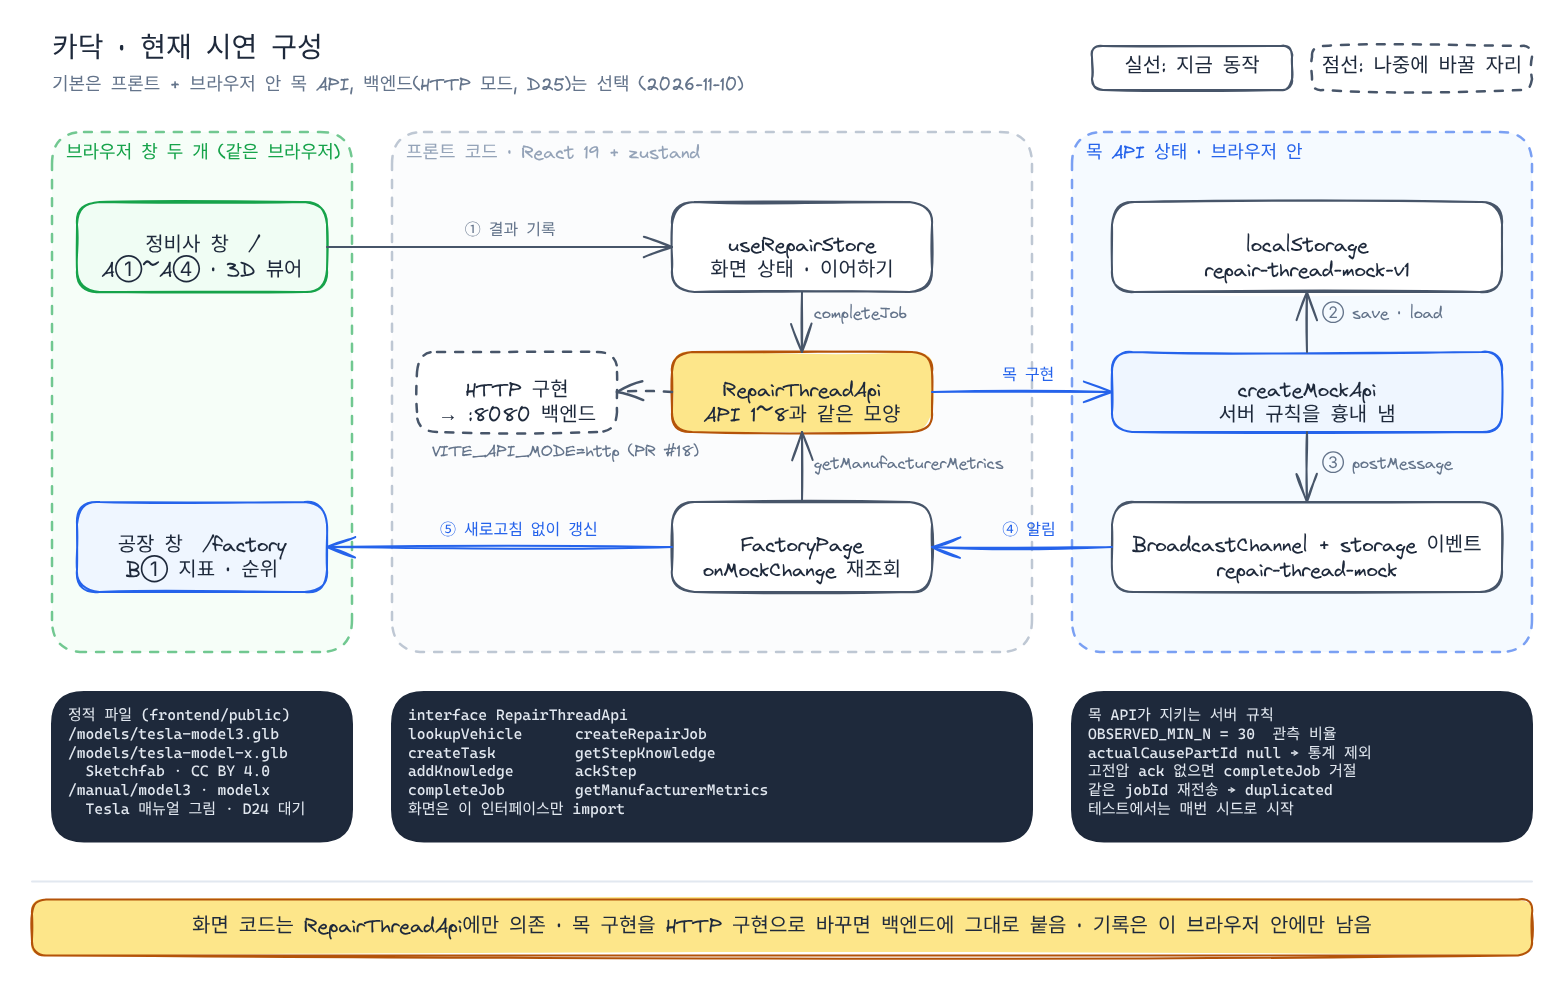
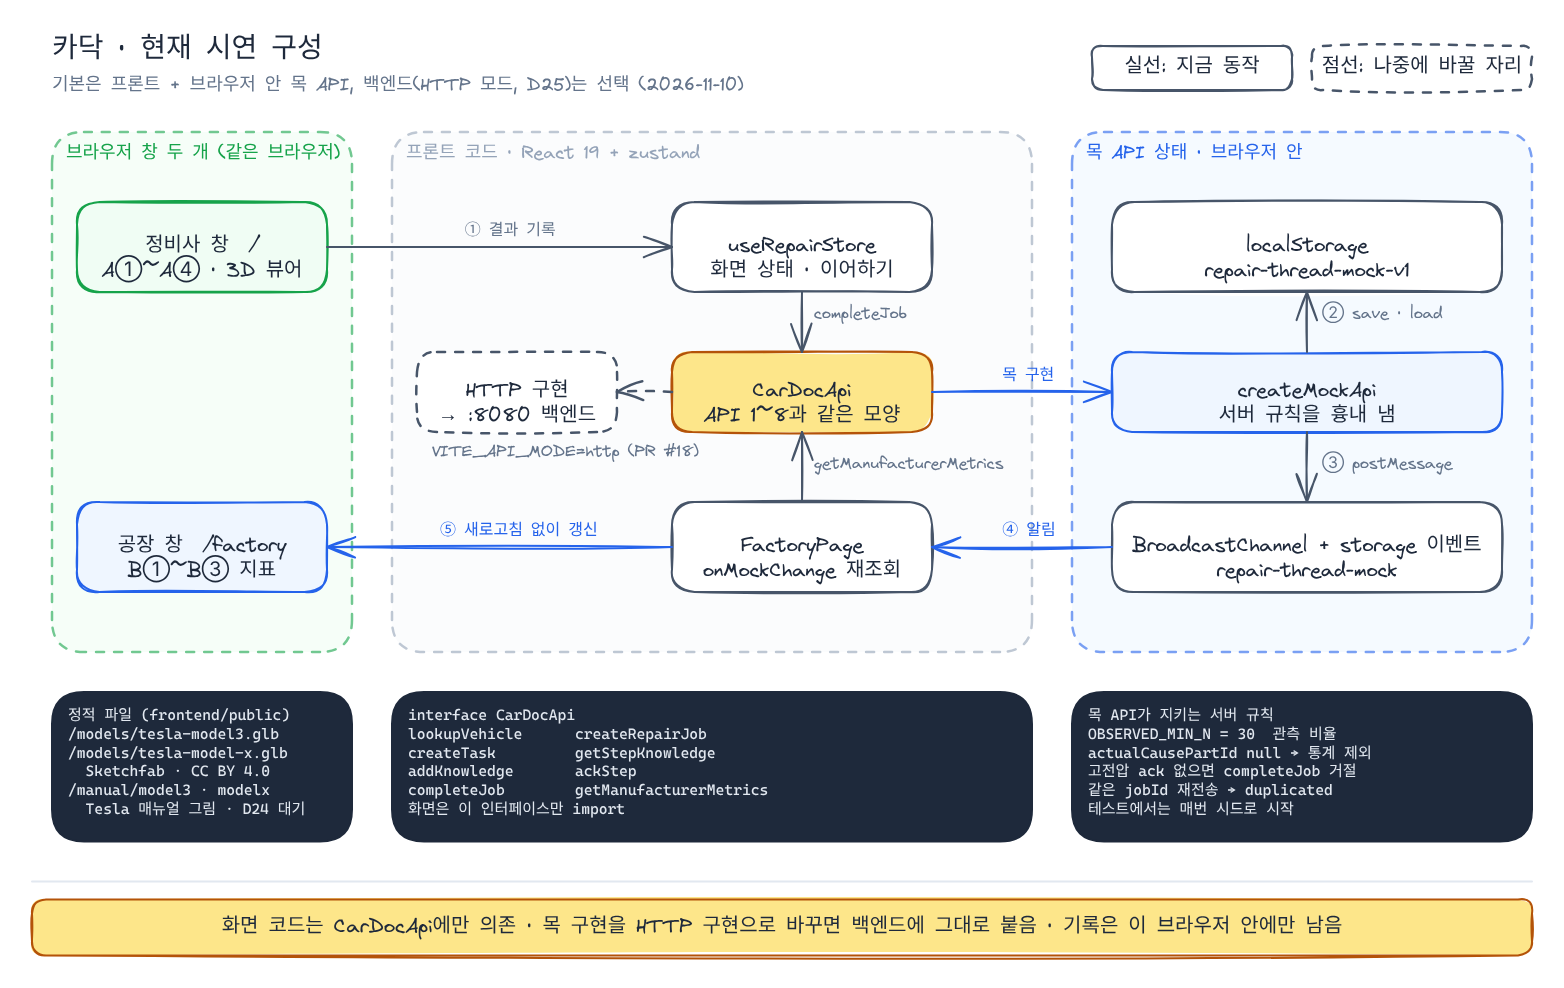
docs: master 최신(PR #25) 반영, CarDoc 이름 표기
- PR #25 반영: 고장코드 여러 개(공통 원인), 접수 증상 칩, 후보 점검 단계,
  공장 B② 사양·생산 비교·B③ 고장 다발, 결과 카드, CarDocApi 이름 변경
- 11장 리스크: 화면·목 API는 코드 여러 개, 백엔드 API 2는 코드 하나 (팀 결정 필요)
- 14장: Vercel 공개 시연판 (deploy-vercel.md), 15장: 시연 대본 링크
- 12-6: 목 API 추가 필드는 frontend-mock-api-diff.md
- 테스트: master 86개, TC-A1-07·A2-10·A4-15 추가, TC-A1-04·B2-01·B3-01 상태 갱신 (총 72개)
- README 4·5장: 구현 현황, 백엔드(PR #18), 스키마 6개, CarDocApi
- 현재 시연 구성 그림: CarDocApi, 공장 창 B①~B③

Claude-Session: https://claude.ai/code/session_014R51HkAxQNUEAujjDtMXPZ

diff --git a/docs/test-plan.md b/docs/test-plan.md
@@ -2,15 +2,15 @@
 
 > [기획서 13장](planning.md#13-테스트케이스-기획)과 같은 내용. 장 번호(6장, 14장 등)는 [기획서](planning.md) 기준이고, 배포 검증은 [EKS 배포 기획](deployment-eks.md)과 이어짐. 상태 열은 2026-11-10 기준.
 
-2026-11-10 기준으로 실제 구현(프론트엔드 + 목 API, PR #6·#7·#8·#9)에 맞춰 고침. 시연 전에 반드시 통과시킬 P0는 17개이고, 그중 12개는 자동 테스트로 통과함. 백엔드(PR #18, Spring Boot 모듈러 모놀리스)가 올라오면서 통합 테스트 14개(H2, MySQL 모드)와 모듈 경계 테스트 1개가 생김 (PR #18·#22·#23, 작성자가 Java 21·Gradle로 15개 통과 확인). 프론트는 master 69개, 최신 PR #21·#22·#23까지 합치면 93개(파일 16개) 통과함. 상태는 `frontend`에서 `npm test`를 돌린 결과 기준이고, 도구와 기준 숫자는 제안이라 팀 확정이 필요함.
+2026-11-10 기준으로 실제 구현(프론트엔드 + 목 API, PR #6·#7·#8·#9·#25)에 맞춰 고침. 시연 전에 반드시 통과시킬 P0는 17개이고, 그중 12개는 자동 테스트로 통과함. 백엔드(PR #18, Spring Boot 모듈러 모놀리스)가 올라오면서 통합 테스트 14개(H2, MySQL 모드)와 모듈 경계 테스트 1개가 생김 (PR #18·#22·#23, 작성자가 Java 21·Gradle로 15개 통과 확인). 프론트는 master 86개(파일 11개, PR #25 머지 뒤) 통과함. #21·#22·#23은 #25와 같은 스토어·화면 파일을 고쳐서 다시 맞춘 뒤 숫자를 갱신함. 상태는 `frontend`에서 `npm test`를 돌린 결과 기준이고, 도구와 기준 숫자는 제안이라 팀 확정이 필요함.
 
 ## 13-1. 테스트 레벨
 
 | 레벨 | 대상 | 도구 | 지금 상태 |
 | --- | --- | --- | --- |
-| 단위 | 목 API 정책(관측 비율, 분모, 고전압 검사, 중복 완료), store 흐름, 3D 부품 상태·배치, 공장 순위 | Vitest | master 69개(파일 11개). PR #21·#22·#23까지 합치면 93개(파일 16개) 통과 |
+| 단위 | 목 API 정책(관측 비율, 분모, 고전압 검사, 중복 완료), store 흐름, 3D 부품 상태·배치, 공장 순위 | Vitest | master 86개 통과 (파일 11개, PR #25 머지 뒤). #21·#22·#23은 다시 맞춘 뒤 갱신 |
 | 컴포넌트 | 결과 기록 화면 기본값 | Vitest + Testing Library (jsdom) | 1개 통과 |
-| 계약 | 화면이 쓰는 `RepairThreadApi` 인터페이스. 같은 인터페이스의 HTTP 구현(`httpApi.ts`, `VITE_API_MODE=http`)이 PR #18에서 생김 | 목 API 테스트가 계약 역할. HTTP 구현 계약 테스트는 아직 없음 (WireMock 또는 Spring Cloud Contract 제안) | 목 API 기준 통과 |
+| 계약 | 화면이 쓰는 `CarDocApi` 인터페이스(이전 `RepairThreadApi`, PR #25에서 이름 바꿈). 같은 인터페이스의 HTTP 구현(`httpApi.ts`, `VITE_API_MODE=http`)이 PR #18에서 생김 | 목 API 테스트가 계약 역할. HTTP 구현 계약 테스트는 아직 없음 (WireMock 또는 Spring Cloud Contract 제안) | 목 API 기준 통과 |
 | 통합 | 백엔드 API 흐름: 조회 → 후보 정렬·분모 → task → 고전압 → 완료·중복 → 비공개 팁 → 취소 → 진행 저장, 고전압 부품 task 없는 완료 409, 누적 시간 저장, 소유권 403, 형식 400 | Spring Boot Test + MockMvc, H2(MySQL 모드). Testcontainers(MySQL)는 제안 | 14개 (PR #18·#22·#23 `MechanicApiFlowTest`) |
 | 모듈 경계 | 모듈 순환 의존, 다른 모듈 내부 접근 금지 (D25) | Spring Modulith `ApplicationModules.verify()` | 1개 (PR #18 `ModularityTests`) |
 | E2E | 데모 시나리오, 정비사 창·공장 창 동시 갱신 | Playwright | 창 두 개 시나리오 수동 확인 1회 |
@@ -42,9 +42,10 @@
 | TC-A1-01 | A① VIN | 등록된 17자리 VIN (Model 3·Model X 예시 VIN) | 차종·사양·생산 시기·라인 표시 (API 1) | 단위 | P0 | 통과 | mockApi.test, useRepairStore.test |
 | TC-A1-02 | A① VIN | 16자리, 또는 I·O·Q 포함 | "17자리 확인" 안내, 서버 요청 안 보냄 | 단위 | P1 | 미실행 | 형식 검사 미구현 |
 | TC-A1-03 | A① VIN | 형식은 맞지만 미등록 VIN | 미등록 안내, 진단 진행 안 함 | 단위 | P1 | 통과 | mockApi.test |
-| TC-A1-04 | A① 고장코드 | 코드 여러 개 + 증상 | 범위 변경: 작업 하나에 코드 하나 (D25). 코드마다 작업을 따로 열고 증상은 함께 저장 | 통합 | P1 | 변경 | 백엔드 API 2는 `dtcCode` 하나만 받음 |
+| TC-A1-04 | A① 고장코드 | 코드 여러 개 + 증상 | 두 코드에 공통인 원인이 맨 위, 그 원인으로 수리 시작. 코드 하나면 공식 순서 그대로, 차종에 없는 코드가 섞이면 거절 | 단위 | P1 | 통과 | mockApi.test (PR #25). 백엔드 API 2는 아직 `dtcCode` 하나라 HTTP 모드는 미지원 (11장 리스크) |
 | TC-A1-05 | A① 고장코드 | 차종에 없는 코드, 형식 오류 | 등록 안 된 코드 안내, 저장 안 함 | 단위 | P1 | 통과 | mockApi.test (형식 검사는 미구현) |
 | TC-A1-06 | A① 고장코드 | 같은 코드 두 번 입력 | 하나로 합쳐 저장 | 단위 | P2 | 미실행 | - |
+| TC-A1-07 | A① 증상으로 시작 | 코드 없이 접수 증상 칩 선택 | 맞는 고장코드가 위로, 진단 중 후보에 맞은 증상 표시. 다른 차량을 고르면 증상 비움 | 단위 | P1 | 통과 | mockApi.test, useRepairStore.test (PR #25) |
 | TC-A2-01 | A② 우선순위 | B1A24 (Model 3, n=48) | 공식 순서 + 관측 비율·분자·n 표시 | 단위 | P0 | 통과 | mockApi.test |
 | TC-A2-02 | A② 경계 | 사례 n 29건 | "표본 부족, 참고용", 공식 순서만 기준 | 단위 | P0 | 미실행 | 경계 픽스처 필요 |
 | TC-A2-03 | A② 경계 | 사례 n 30건 | 관측 비율·분자·n 표시 | 단위 | P0 | 미실행 | 경계 픽스처 필요 |
@@ -54,6 +55,7 @@
 | TC-A2-07 | A② 콜드 스타트 | 기록 0건 | 공식 순서만, "표본 부족" | 단위 | P1 | 미실행 | - |
 | TC-A2-08 | A② 분모 통일 | 한 사례의 후보 목록 | 모든 후보가 같은 n, n<30 사례는 전부 참고용 (B1A3C, n=19) | 단위 | P1 | 통과 | mockApi.test |
 | TC-A2-09 | A② 순서대로 점검 | 1순위 점검 후 "원인 아님" | 그 후보를 지우고 다음 후보 선택, 다른 코드로 바꾸면 초기화 | 단위 | P1 | 통과 | useRepairStore.test |
+| TC-A2-10 | A② 후보 점검 | 후보의 점검 단계 체크 후 "이상 있음" / "모두 정상" | 이상 있음 → 그 후보를 원인으로 확정, 모두 정상 → 다음 후보. 원인 아님으로 바꾸면 확정 풀림 | 단위 | P1 | 통과 | useRepairStore.test (PR #25) |
 | TC-A3-01 | A③ 3D 경로 | 1순위 후보 선택 (API 3) | 절차 단계·체결 방식·예상 시간, 3D 모델 정보 | 단위 | P0 | 통과 | mockApi.test, useRepairStore.test |
 | TC-A3-02 | A③ 강조 | 단계 이동 | 지금 단계 부품 강조, 끝난 부품은 탈거 표시 | 단위 | P1 | 통과 | partState.test, sceneParts.test |
 | TC-A3-03 | A③ 고전압 (화면) | P0A3F 1단계에서 확인 없이 "다음" | 다음 단계 잠금, 결과 기록 못 엶 | 단위 | P0 | 통과 | useRepairStore.test |
@@ -82,6 +84,7 @@
 | TC-A4-12 | A④ 잠시 나가기 | 3단계에서 진행 저장 (API 15) 뒤 이어하기 | 오늘 작업 목록에 진행 중으로 남고, 저장한 단계부터 열림 | 통합 | P1 | 미실행 | 백엔드 통합 테스트에 있음 (PR #18). 프론트 버튼 없음 |
 | TC-A4-13 | A④ 진행 저장 우회 | 확인 안 한 고전압 단계 뒤로 진행 저장 | 409, 저장 안 함 | 통합 | P1 | 미실행 | 백엔드 통합 테스트에 있음 (PR #18) |
 | TC-A4-14 | A④ 고전압 task 우회 | task를 만들지 않고 고전압 부품을 실제 원인으로 완료 | 409, 저장 안 함 | 통합 | P1 | 미실행 | PR #22 작성자 실행 기준 통과 (머지 전) |
+| TC-A4-15 | A④ 결과 카드 | B1A24 래치로 결과 기록 | 결과 카드에 관측 수치 전후 표시 (25/48 → 26/49) | 단위 | P1 | 통과 | useRepairStore.test (PR #25) |
 
 ## 13-4. 공장 대시보드 (B)·권한·출처 테스트케이스
 
@@ -92,8 +95,8 @@
 | TC-B1-03 | B① 난이도 지수 | 고정 입력 (시간 편차·모듈 교체·막힘) | 0.5·0.3·0.2 가중 합과 같은 값 (8-3) | 단위 | P1 | 미실행 | 화면은 표준 대비 초과율로 대신함 |
 | TC-B1-04 | B① 실시간 | 정비사 창과 공장 창을 나란히 띄우고 정비사 창에서 기록 | 공장 창이 새로고침 없이 갱신 | E2E | P0 | 통과 | mockApi.test, 브라우저 확인 (n 41 → 42) |
 | TC-B1-05 | B① 가장 막힌 단계 | 막힘 단계가 있는 완료 기록 제출, 같은 요청 재전송 | 막힘 빈도 1 증가(재전송은 한 번), "새 막힘 기록 N건 기준" 표시, 막힘 없음·원인 미확인 제외 | 단위 | P1 | 통과 | PR #23 (머지 전) |
-| TC-B2-01 | B② 비교 | 같은 부품의 사양별 기록 | 사양별 시간 차이 표시 | E2E | P1 | 미실행 | 화면 미구현 |
-| TC-B3-01 | B③ 탐지 | 시드 기록 | 원인 집중 패턴을 "검토 필요"로 표시, 단정 문구 없음 | 통합 | P1 | 미실행 | 화면 미구현 |
+| TC-B2-01 | B② 비교 | 같은 부품의 사양별 기록 | 사양별 시간 차이 표시 | 단위 | P1 | 통과 | mockApi.test: 부품마다 사양·생산 조건별 평균 시간 2줄 이상 (PR #25) |
+| TC-B3-01 | B③ 탐지 | 시드 기록 | 원인 집중 패턴을 "검토 필요"로 표시, 단정 문구 없음 | 단위 | P1 | 통과 | mockApi.test: 코드별 원인 분포, 기록하면 그 원인 +1 (PR #25). 문구는 브라우저 확인 |
 | TC-B4-01 | B④ 안건 | 난이도 상위 진입 | DRAFT 생성, 담당자만 채택·보류, 자동 공정 변경 없음 | 통합 | P2 | 미실행 | 설계만 |
 | TC-SEC-01 | 인증 | 토큰 없이 API 호출 | 401 | 통합 | P1 | 미실행 | auth Mock |
 | TC-SEC-02 | 제조사 범위 | 다른 제조사 지표 요청 | 403 | 통합 | P1 | 미실행 | auth Mock |

diff --git a/README.md b/README.md
@@ -150,13 +150,14 @@ Tesla Model 3, 고장코드 B1A24 (리어 왼쪽 도어 래치, 예시 코드). 
 
 | 구분 | 내용 |
 | --- | --- |
-| 실제 구현 | 프론트엔드 정비사·공장 화면, 3D 뷰어 (React 19 + react-three-fiber), 상태 관리 (zustand) |
-| Mock | 백엔드 서비스 전체를 같은 인터페이스(`RepairThreadApi`)의 목 API로 대체. 시드 사례 8개, 차량 2대, 단계 팁 12건. 상태는 브라우저 `localStorage` |
-| 설계만 | Spring Boot 마이크로서비스, EKS 배포, 신입 모드, 개선 제안, 팁 추천·신고, 실제 제조사 연동 |
+| 실제 구현 | 프론트엔드 정비사 화면(후보 점검, 고장코드 여러 개, 증상 칩), 공장 화면(B① 정비 난이도·B② 사양·생산 비교·B③ 고장 다발), 3D 뷰어 (React 19 + react-three-fiber), 상태 관리 (zustand) |
+| 백엔드 (PR #18, 머지 전) | Spring Boot 모듈러 모놀리스 1개, 정비사 화면 API 1\~6·8·9\~15 (D25). `VITE_API_MODE=http`로 연결 |
+| Mock | 목 API(`CarDocApi` 목 구현)가 백엔드 전체를 대신함. 시드 사례, 차량 2대, 단계 팁 12건. 상태는 브라우저 `localStorage` |
+| 설계만 | EKS 배포(목표 구성 11 Deployment), 신입 모드, 개선 제안(B④), 팁 추천·신고, 실제 제조사 연동 |
 
-![현재 시연 구성: 정비사 창과 공장 창이 useRepairStore와 RepairThreadApi를 거쳐 브라우저 안 목 API를 쓰고, localStorage와 BroadcastChannel로 창끼리 새로고침 없이 갱신됨](docs/images/demo-runtime.png)
+![현재 시연 구성: 정비사 창과 공장 창이 useRepairStore와 CarDocApi를 거쳐 브라우저 안 목 API를 쓰고, localStorage와 BroadcastChannel로 창끼리 새로고침 없이 갱신됨](docs/images/demo-runtime.png)
 
-화면 코드는 `RepairThreadApi` 인터페이스에만 의존함. 지금은 목 구현이 붙어 있고, 백엔드가 생기면 같은 인터페이스의 HTTP 구현으로 바꿈.
+화면 코드는 `CarDocApi` 인터페이스에만 의존함. 기본은 목 구현이고, PR #18의 HTTP 구현(`VITE_API_MODE=http`)으로 백엔드에 붙음. 공개 시연판은 프론트만 Vercel 정적 사이트로 올림 ([배포 안내](docs/deploy-vercel.md)).
 
 ## 5. Technical Design
 
@@ -166,10 +167,11 @@ Tesla Model 3, 고장코드 B1A24 (리어 왼쪽 도어 래치, 예시 코드). 
 
 - 논리 서비스 7개: 진단, 3D 가이드, 정비 기록, 분석, 생산 연동에 auth와 knowledge를 나눔 (D22). 배포 단위는 웹앱 2개·Gateway·제조사 mock까지 11개
 - 회색 글자(auth, knowledge, 생산 연동, 제조사 시스템)는 시연에서 고정 응답 Mock (D23)
-- 서비스 간에는 ID만 참조하고 다른 서비스 DB를 직접 조인하지 않음. 저장소는 Aurora 클러스터 1개에 스키마 5개 + S3
-- 진단·분석은 자체 DB 없이 다른 서비스를 호출함 (분석은 정비 DB 집계 조회)
+- 서비스 간에는 ID만 참조하고 다른 서비스 DB를 직접 조인하지 않음. 저장소는 Aurora 클러스터 1개에 스키마 6개 + S3
+- 진단은 고장코드 규칙 참조 데이터만 두고 이력은 호출함, 분석은 정비 기록 집계 조회로 계산
+- 지금 백엔드 구현은 모듈러 모놀리스 1개 (D25, PR #18). 위 그림은 목표 구성
 - Spring Boot 계층: Controller → Application Service → Domain Service → Repository / External API Client
-- 프론트는 화면 코드가 `RepairThreadApi` 인터페이스에만 의존해서, 목 API를 HTTP 구현으로 바꾸면 백엔드에 그대로 붙음
+- 프론트는 화면 코드가 `CarDocApi` 인터페이스에만 의존해서, 목 API를 HTTP 구현으로 바꾸면 백엔드에 그대로 붙음
 
 <details>
 <summary>텍스트 버전 (Mermaid)</summary>
@@ -220,7 +222,7 @@ flowchart TB
 │   ├── public/models/     3D 모델 (GLB)
 │   ├── public/manual/     매뉴얼 그림 (출처는 10장)
 │   └── src/
-│       ├── api/           RepairThreadApi 인터페이스와 목 API
+│       ├── api/           CarDocApi 인터페이스와 목 API
 │       ├── mocks/         차종·고장코드별 시드 사례
 │       ├── store/         진단 흐름 상태 (zustand)
 │       ├── pages/         정비사 화면, 공장 화면
@@ -233,8 +235,8 @@ flowchart TB
 
 | 항목 | 현황 |
 | --- | --- |
-| 자동 테스트 | 69개 통과 (Vitest, 파일 11개), lint·build 통과 (master 기준). 최신 PR #21·#22·#23까지 합치면 93개 (백엔드 PR은 H2 통합 14개 + 모듈 경계 1개) |
-| 테스트케이스 | 69개, 시연 전 필수 P0 17개 중 12개 통과 |
+| 자동 테스트 | 86개 통과 (Vitest, 파일 11개), lint·build 통과 (master, PR #25 머지 뒤). 백엔드 PR(#18·#22·#23)은 H2 통합 14개 + 모듈 경계 1개 |
+| 테스트케이스 | 72개, 시연 전 필수 P0 17개 중 12개 통과 |
 | 브라우저 확인 | 정비사 창에서 기록 → 공장 창 지표가 새로고침 없이 갱신 (n 41 → 42) |
 
 남은 P0: 관측 비율 경계(사례 n 29/30), 출처 표기, 배포 검증. 전체 목록은 [테스트 기획](docs/test-plan.md).
@@ -271,7 +273,7 @@ flowchart TB
 | [기획서](docs/planning.md) | 문제 정의부터 발표 구성까지 15장 |
 | [API 명세](docs/api-spec.md) | API 8개와 권한·안전·집계 정책 |
 | [데이터 사전](docs/data-dictionary.md) | 테이블 15개, 소유 서비스·저장소 |
-| [테스트케이스 기획](docs/test-plan.md) | 69개 (P0 17개), 상태와 근거, 리허설 순서 |
+| [테스트케이스 기획](docs/test-plan.md) | 72개 (P0 17개), 상태와 근거, 리허설 순서 |
 | [EKS 배포 기획](docs/deployment-eks.md) | 서비스 분리, 탄력 설계, 매니페스트 예시, CI/CD, 비용·리스크 |
 | [가이드 기준 리뷰](docs/review-mentor-guide.md) | 8항목 판정, 체크리스트, 범위 칼질, 발표·Q&A |
 | [로컬 실행 안내](docs/local-preview.md) | 설치·실행, 확인할 흐름, 검증 |

diff --git a/docs/superpowers/plans/2026-11-10-final-demo.md b/docs/superpowers/plans/2026-11-10-final-demo.md
@@ -24,23 +24,23 @@ README 기능 목록(A①~⑤, B①~③)과 데모 루프(A① → A② → A③
 
 열린 PR이 3개라, 아래는 #8 위에 로컬로 쌓고 앞 PR이 머지되는 대로 하나씩 올린다.
 
-1. **후보 점검 절차 (A② 마무리, 약 250줄)**
+1. 후보 점검 절차 (A② 마무리, 약 250줄)
    - 모든 후보에 2~3단계 점검 방법(측정·확인)을 둔다. 점검 결과로 "이상 없음 → 다음 후보", "이상 있음 → 원인 확정"을 고른다.
    - 원인이 확정됐는데 교체 절차가 시연 범위 밖이면 그렇다고 안내한다.
    - 3D에서는 점검 대상 부품을 강조한다.
-2. **고장코드 다중 입력·증상 선택 (A①, 약 200줄)**
+2. 고장코드 다중 입력·증상 선택 (A①, 약 200줄)
    - 코드를 여러 개 넣으면 후보를 합쳐 공식 순서로 보여 준다.
    - 증상 칩으로 후보를 좁힌다.
-3. **공장 화면 B②·B③ (약 300줄, 예시 집계)**
+3. 공장 화면 B②·B③ (약 300줄, 예시 집계)
    - B②: 같은 부품의 사양·생산 시기·라인별 평균 시간 비교.
    - B③: 고장코드별 실제 원인 분포와 몰리는 사양 탐지.
-4. **시연 완성도 (약 200줄)**
+4. 시연 완성도 (약 200줄)
    - 데모 루프 5단계의 "n 48 → 49" 순간이 눈에 보이게 강조한다.
    - 3D를 나중에 불러오고 로딩 화면을 둔다 (번들 경고, 5.4MB 모델).
    - Model X 작업 기록 예시를 넣는다.
    - 빈 화면·오류 화면을 점검한다.
    - A⑤ 신입 모드는 시간이 남으면 단계 체크리스트로 넣는다.
-5. **정리 (문서·검토)**
+5. 정리 (문서·검토)
    - README 데모 루프 체크.
    - api-spec에 팁 남기기 API 반영 (팀 합의 필요).
    - 발표 덱 12번 슬라이드와 화면 맞춤.

diff --git a/docs/review-mentor-guide.md b/docs/review-mentor-guide.md
@@ -73,7 +73,7 @@ INPUT → PROCESS → OUTPUT: VIN·고장코드 입력 → 공식 진단 순서 
 | --- | --- | --- |
 | Problem & Target | 2분 | 김 주임의 2시간 견적이 5시간으로 늘어나는 장면(가상 시나리오), 고장코드만 쓴 원인 분류 정확도 58.0%(사전공개 논문) |
 | Solution & Experience | 2분 | 한 문장 요약, A② → A③ → A④ 흐름, 양방향 루프 그림 |
-| Prototype Demo | 4분 | VIN·고장코드 입력 → 점검 순서 → 3D 분해 7단계(B1A24 리어 도어 래치) → 기록 제출 → 두 화면 동시 갱신. 고전압 잠금은 P0A3F 1단계에서 따로 보여 줌 |
+| Prototype Demo | 4분 | VIN·고장코드 입력 → 점검 순서 → 3D 분해 7단계(B1A24 리어 도어 래치) → 기록 제출 → 두 화면 동시 갱신. 고전압 잠금은 P0A3F 1단계에서 따로 보여 줌. 클릭 순서는 [시연 대본](./demo-script.md) |
 | Technical Design & Key Decisions | 2분 30초 | MSA 목표 구성도 1장과 지금 구현(모듈러 모놀리스, D25), 실제 구현·Mock 표, 결정 2개 (D19, D17) |
 | Lessons & Next Steps | 1분 30초 | 팀 내부 측정 결과, 다음 단계: 실제 정비사 검증, 제조사 데이터 제휴 |
 

diff --git a/docs/deployment-eks.md b/docs/deployment-eks.md
@@ -4,6 +4,8 @@
 
 서비스를 Deployment 11개로 나눠 서울 리전(ap-northeast-2) EKS Auto Mode 클러스터 하나에서 관리하고, 파드·노드·DB가 사용량에 따라 늘고 줄게 함 (14-3). 사용자 진입은 CloudFront 하나, 3D 모델은 S3, DB는 Aurora Serverless v2에 서비스별 스키마. 사양과 숫자는 해커톤 시연 기준 제안임. 프론트는 React 19 + Vite(정적 파일), 백엔드는 지금 MySQL 8.4로 개발 중이라(PR #18, D25) Aurora도 MySQL 호환을 기본으로 둠 (팀 확인 필요).
 
+> 공개 시연판: EKS와 별개로 프론트만 Vercel 정적 사이트로 올림 (`npm run build:public`, Tesla 매뉴얼 그림 제외, 백엔드 없이 목 API). 주소는 `https://jnnxeo-cardoc.vercel.app`(master 연결 뒤), 팀원 40명이 20분 함께 써도 Hobby 한도(월 100GB) 안. 자세한 건 [deploy-vercel.md](./deploy-vercel.md) (PR #25).
+
 ## 14-1. 서비스 분리 (D22)
 
 > D25: 지금 백엔드는 모듈러 모놀리스 1개(PR #18)라, 아래 표는 모듈을 서비스로 떼어 낼 때의 목표 배포 단위임. 시연 배포를 백엔드 1개 + 웹으로 줄일지는 팀 확인 필요.
